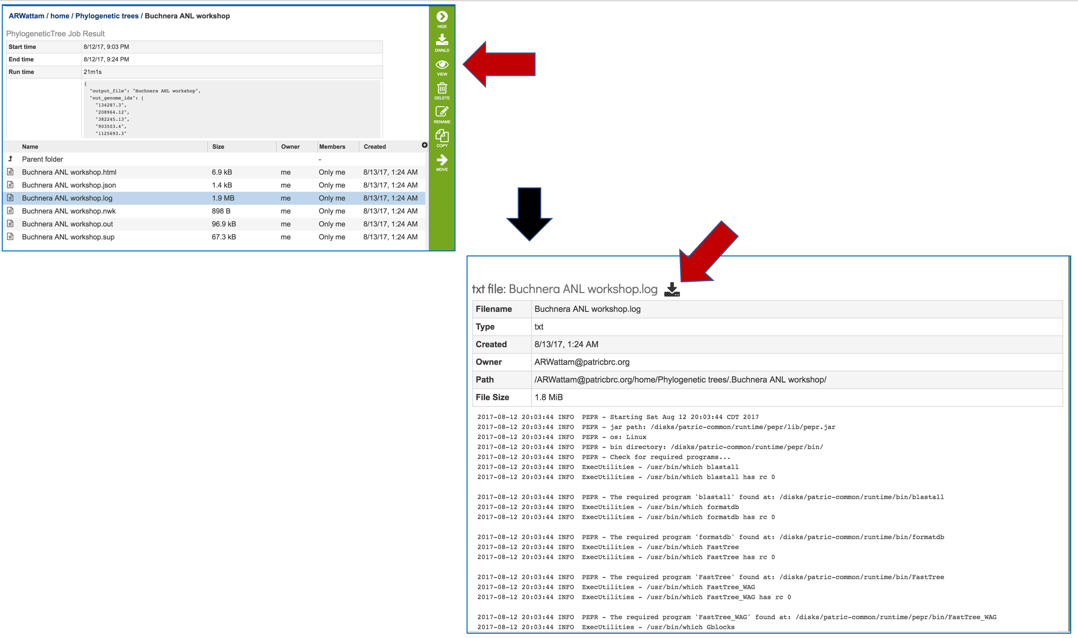
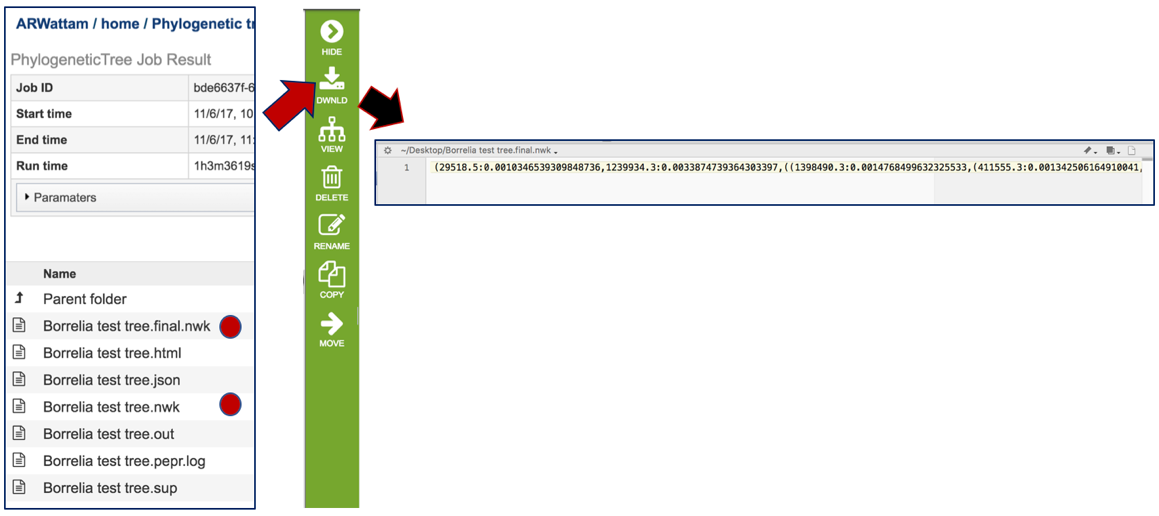
update phylogenetic tree building tutorial

Changed region(s): [[0.0, 0.0, 1.0, 1.0], [0.0, 0.4961, 0.2143, 0.9922], [0.1837, 0.7442, 0.2143, 0.8062]]

diff --git a/docroot/tutorial/phylogenetic_tree_building/tree_building.md b/docroot/tutorial/phylogenetic_tree_building/tree_building.md
@@ -1,133 +1,139 @@
-# Building Phylogenetic Trees
+# Building Phylogenetic trees in PATRIC
 
 ## 1. Selecting an “ingroup” of genomes for the tree.
 1.1. In the Global text box, which is found at the right side of the header on any PATRIC page, enter the genus of interest, then hit return.
-![Step 1](./images/image1.png "Step 1")
+![Step 1](./images/image1.png)
 
 1.2. This will reload the page to show the search results.  Click on the number that follows the Genomes in these results.
-![Step 2](./images/image2.png "Step 2")
+![Step 2](./images/image2.png)
 
 1.3. This will open a table that contains all the genomes that have a match with the word used in the search.
-![Step 3](./images/image3.png "Step 3")
+![Step 3](./images/image3.png)
 
 1.4. For this exercise, select 5 genomes by clicking on the check box in front of the name.   This will open icons in the vertical green bar that are can be used with this selection.  Click on the Group icon.
-![Step 4](./images/image4.png "Step =4")
+![Step 4](./images/image4.png)
 
 1.5. This will open a pop-up window where a group can be named.  Click on the down arrow at the end of the text box that has Existing Group in it.  This will open up a drop-down box.  Click on New Group.  This will change the text in that box to “New Group”.  Enter the name of the new group in the text box under Group Name and click the Add button.  The group will now be saved in the workspace.
-![Step 5](./images/image5.png "Step 5")
+![Step 5](./images/image5.png)
+
 
 ## 2. Selecting an “outgroup” of genomes for the tree from the Order level phylogenetic tree view.
 2.1. Select any single genome from the genome table by clicking on the check box in front of its name.  This will open icons in the vertical green bar that are can be used with this selection.  Click on the Genome icon.
-![Step 6](./images/image6.png "Step 6")
+![Step 6](./images/image6.png)
 
 2.2. This will open the landing page for that genome.  Across the top a number of tabs can be seen.  Click on the Phylogeny tab.
-![Step 7](./images/image7.png "Step 7")
+![Step 7](./images/image7.png)
 
 2.3. This will open up a phylogenetic tree that includes the higher quality genomes (those with the fewest contigs) for each of the major groups within the taxonomic Order that the genome belongs to.  Scroll down to find the genus of interest
-![Step 8](./images/image8.png "Step 8")
+![Step 8](./images/image8.png)
 
-2.4. Once the genus is located, look below it to find the closest genera that are not part of the named genus.
-![Step 9](./images/image9.png "Step 9")
+2.4.  Once the genus is located, look below it to find the closest genera that are not part of the named genus.
+![Step 9](./images/image9.png)
 
 2.5. To select genomes of interest, locate the genome and click on the black dot immediately in front of the name of that genome.  Wait several seconds.  The branch that points to that genome will turn red.
-![Step 10](./images/image10.png "Step 10")
+![Step 10](./images/image10.png)
 
 2.6. Use Command click to select a total of up to 5 genomes. Once selected, click on the Group icon in the vertical green bar.
-![Step 11](./images/image11.png "Step 11")
+![Step 11](./images/image11.png)
 
 2.7. This will open a pop-up window where a group can be named.  Click on the down arrow at the end of the text box that has Existing Group in it.  This will open up a drop-down box.  Click on New Group.  This will change the text in that box to “New Group”.  Enter the name of the new group in the text box under Group Name and click the Add button.  The group will now be saved in the workspace.
-![Step 12](./images/image12.png "Step 12")
+![Step 12](./images/image12.png)
+
 
 ## 3. Launching the phylogenetic tree job with selected genomes
 3.1. Click on the Services tab at the top of the page, and then on Phylogenetic Tree, which can be found underneath the Genomics header.
-![Step 13](./images/image13.png "Step 13")
+![Step 13](./images/image13.png)
 
 3.1.1. Selecting the ingroup genomes.  Find the box for Ingroup genomes.
-![Step 14](./images/image14.png "Step 14")
+![Step 14](./images/image14.png)
 
 3.1.2. To select a genome group that contains the ingroup genomes, click on the down arrow next to the text box under And/Or Select Genome Group. This will open a drop-down list that shows the names of all the genome groups.  Select the group of interest by clicking on it.
-![Step 15](./images/image15.png "Step 15")
+![Step 15](./images/image15.png)
 
 3.1.3. The name of the group will be in the text box.  Click on the plus icon to move that genome into the selected ingroup genome table.
-![Step 16](./images/image16.png "Step 16")
+![Step 16](./images/image16.png)
 
 3.2. Selecting the outgroup genomes.  Find the Outgroup genomes box.  To select a genome group that contains the outgroup genomes, click on the down arrow next to the text box under And/Or Select Genome Group. This will open a drop-down list that shows the names of all the genome groups.  Select the group of interest by clicking on it.
-![Step 17](./images/image17.png "Step 17")
+![Step 17](./images/image17.png)
 
 3.2.1. The name of the group will be in the text box.  Click on the plus icon to move that genome into the selected outgroup genome table.
-![Step 18](./images/image18.png "Step 18")
+![Step 18](./images/image18.png)
 
-3.3. Selecting the parameters
+3.3. Selecting the parameters 
 
 3.3.1. Creating a folder
 
 3.3.1.1. A folder must be selected to hold the phylogenetic tree job.  To create a folder, click on the folder icon that is next to the text box under Output Folder.  This will open a pop-up window where all the folders in the workspace are displayed.
-![Step 19](./images/image19.png "Step 19")
+![Step 19](./images/image19.png)
 
 3.3.1.2. To create a new folder, click on the folder icon at the top right of the table.
-![Step 20](./images/image20.png "Step 20")
+![Step 20](./images/image20.png)
 
 3.3.1.3. This will open a pop-up window where the new folder can be named.  Enter the desired name, and then click on the Create Folder button.
-![Step 21](./images/image21.png "Step 21")
+![Step 21](./images/image21.png)
 
 3.3.1.4. The name of the new folder will appear in the folder table.  Select that folder, and then click the OK button.
-![Step 22](./images/image22.png "Step 22")
+![Step 22](./images/image22.png)
 
 3.3.1.5. The name of the selected folder will now appear in the textbox under Output Folder.
-![Step 23](./images/image23.png "Step 23")
+![Step 23](./images/image23.png)
 
 3.3.2. Naming the tree.  Enter the name of the tree in the text box under Output Name. This will be the identifier displayed in the jobs list.
-![Step 24](./images/image24.png "Step 24")
+![Step 24](./images/image24.png)
 
 3.3.3. Selecting the tree building algorithm.  The PEPR software is packaged to run on Linux and on Mac. The software pipeline makes use of several third-party tools. These include, BLAST[1], MCL[2], Muscle[3], hmmbuild[4], hmmsearch[4], Gblocks[5], FastTree[6], and RAxML[7]. The pipeline begins with the set of ingroup genome protein files. These are filtered to remove duplicate species, resulting in a distinct-species subset of the ingroup genomes. This is done to reduce biasing the homolog sets with overrepresented species. BLAST searches are used to find bi-directional best hit protein pairs between genomes, and these bidirectional best hit pairs are clustered using MCL. Clusters containing members from at least half of the distinct genomes are chosen as initial, or seed, homolog sets. These seed sets are expanded to include members from all ingroup and outgroup taxa using tools from the HMMer suite. A hidden Markov Model (HMM) is built from each seed set using hmmbuild. These HMMs are used to search each genome, with hmmsearch, to find the best match from each genome for each homolog set model. The final, expanded, homolog sets are created from the hmmsearch results. Homolog sets representing fewer than 80% of ingroup genomes are removed. The remaining sets are aligned using Muscle, and the alignments are trimmed using GBlocks. The trimmed alignments are concatenated and this concatenated alignment is used to build the main tree with either RAxML or FastTree.
 
 3.3.3.1. Selecting the tree building algorithm.  FastTree and RAxML use different methods, allowing a more stringent test of the robustness of the tree.  Fast Tree runs much more quickly than RAxML, and for this reason should be the first choice.
-![Step 25](./images/image25.png "Step 25")
+![Step 25](./images/image25.png)
 
 3.3.4. Progressive refinement.  The progressive refinement method helps resolve questionable branches by targeting poorly-resolved subtrees for more detailed analysis, typically incorporating additional protein families in the process. This allows trees spanning hundreds of genomes to contain subtrees based on thousands of protein families.  This option allows for a much more thorough analysis is possible (at the cost of a much longer run time).  When this option is selected, the tree with branch support values is searched breadth-first for branches with <100% support that have parent branches with 100% support, which we call “weakly supported and confidently bounded.” The less than 100% support value indicates uncertainty in the details of a subtree, and the 100% support value indicates confidence in the placement of that subtree within the larger tree. The genomes in the subtree, with an outgroup genome chosen from the sister clade, are submitted to PEPR to have a refined tree constructed for just that subset, following the procedure described above. The refined tree is then grafted into the full tree. This process of prune-refine-graft is repeated until refinement has been attempted for all weakly-supported and confidently-bounded subtrees.  The support trees are constructed with FastTree by default for two reasons. First, FastTree is significantly faster than RAxML. Second, FastTree and RAxML use different methods, allowing a more stringent test of the robustness of the tree, because the same result from a different method is more reassuring.
-![Step 26](./images/image26.png "Step 26")
+![Step 26](./images/image26.png)
 
 3.4. Launching the job
 
 3.4.1. Once the ingroup and outgroup genomes have been selected, and the parameters have been chosen, the phylogenetic tree job is ready to be submitted.  Click on the Submit button at the bottom of the page.
-![Step 27](./images/image27.png "Step 27")
+![Step 27](./images/image27.png)
 
 3.4.2. A message will appear over the submit button warning the user that this particular pipeline takes some time to run, especially if progressive refinement was selected.
-![Step 28](./images/image28.png "Step 28")
+![Step 28](./images/image28.png)
+
 
 ## 4. Viewing the results
 4.1. To view the results of the tree building pipeline, click on the Jobs box at the bottom right of any PATRIC page.
-![Step 29](./images/image29.png "Step 29")
+![Step 29](./images/image29.png)
 
 4.2. This will rewrite the page to show the list of jobs that have been submitted, and their progress.
-![Step 30](./images/image30.png "Step 30")
+![Step 30](./images/image30.png)
 
 4.3. To see the results of any tree job, highlight the row by selecting it.  This will open icons in the vertical green bar that are can be used with this selection.  Click on the view icon.
-![Step 31](./images/image31.png "Step 31")
+![Step 31](./images/image31.png)
 
-4.4. This will rewrite the page to show the results of the phylogenetic tree job that was submitted.
-![Step 32](./images/image32.png "Step 32")
+4.4. This will rewrite the page to show the results of the phylogenetic tree job that was submitted. Click on the tree icon at the top right of this table.
+![Step 32](./images/image32.png)
 
-4.5. Parameters. To see the genome IDs and the parameters (like the tree building algorithm and whether or not progressive refinement was deployed), scroll down in the parameters file that can be found under Run Time in the summary table.
-![Step 33](./images/image33.png "Step 33")
+4.5. This will re write the page to show the phylogenetic tree in the PATRIC viewer.
+![Step 33](./images/image33.png)
 
-4.6. Viewing the tree (html). Clicking on the HyperText Markup Language (HTML) file will rewrite the webpage to show a rendering of the tree produced by the pipeline. To see the tree generated by the tree building pipeline, highlight the row that lists that file.  This will open icons in the vertical green bar that are can be used with this selection.  Click on the View icon.  This will rewrite the lower part of the page, showing the tree. To download the html file, click on the download icon in this page.
-![Step 34](./images/image34.png "Step 34")
+4.6. The Job page has a variety of other files available for download or viewing.
+![Step 34](./images/image34.png)
 
-4.7. JSON file.  JSON (JavaScript Object Notation) is an open, text-based data exchange format. Like XML, it is human-readable, platform independent, and enjoys a wide availability of implementations. Data formatted according to the JSON standard is lightweight and can be parsed by JavaScript implementations with incredible ease, making it an ideal data exchange format for Ajax web applications. Since it is primarily a data format, JSON is not limited to just Ajax web applications, and can be used in virtually any scenario where applications need to exchange or store structured information as text.  To see the JSON file generated by the tree building pipeline, highlight the row that lists that file.  This will open icons in the vertical green bar that are can be used with this selection.  Click on the View icon.  This will rewrite the lower part of the page, showing the JSON file. To download the JSON file, click on the download icon in this page.
-![Step 35](./images/image35.png "Step 35")
+4.7. Newick files.  In mathematics, Newick tree format (or Newick notation or New Hampshire tree format) is a way of representing graph-theoretical trees with edge lengths using parentheses and commas. It was adopted by James Archie, William H. E. Day, Joseph Felsenstein, Wayne Maddison, Christopher Meacham, F. James Rohlf, and David Swofford, at two meetings in 1986, the second of which was at Newick's restaurant in Dover, New Hampshire, US.  This file can be used in other software, like FigTree[8], to visualize a phylogenetic tree.  To view the Newick file, highlight the rows where it is listed.  This will open icons in the vertical green bar that are can be used with this selection.  Click on the View icon.  This will rewrite the lower part of the page, showing the Newick file.
+![Step 35](./images/image35.png)
 
-4.8. Log file.  The log file details all the steps that occurred during the construction of the tree.  To view that file, highlight the row where it is listed.  This will open icons in the vertical green bar that are can be used with this selection.  Click on the View icon.  This will rewrite the lower part of the page, showing the log file.  To download the log file, click on the download icon in this page.
-![Step 36](./images/image36.png "Step 36")
+4.8. To download the Newick file, click on the download icon in this page.
+![Step 36](./images/image36.png)
 
-4.9. Newick file.  In mathematics, Newick tree format (or Newick notation or New Hampshire tree format) is a way of representing graph-theoretical trees with edge lengths using parentheses and commas. It was adopted by James Archie, William H. E. Day, Joseph Felsenstein, Wayne Maddison, Christopher Meacham, F. James Rohlf, and David Swofford, at two meetings in 1986, the second of which was at Newick's restaurant in Dover, New Hampshire, US.  This file can be used in other software, like FigTree[8], to visualize a phylogenetic tree.  To view the Newick file, highlight the row where it is listed.  This will open icons in the vertical green bar that are can be used with this selection.  Click on the View icon.  This will rewrite the lower part of the page, showing the Newick file.  To download the Newick file, click on the download icon in this page.
-![Step 37](./images/image37.png "Step 37")
+4.9. JSON file.  JSON (JavaScript Object Notation) is an open, text-based data exchange format. Like XML, it is human-readable, platform independent, and enjoys a wide availability of implementations. Data formatted according to the JSON standard is lightweight and can be parsed by JavaScript implementations with incredible ease, making it an ideal data exchange format for Ajax web applications. Since it is primarily a data format, JSON is not limited to just Ajax web applications, and can be used in virtually any scenario where applications need to exchange or store structured information as text.  To see the JSON file generated by the tree building pipeline, highlight the row that lists that file.  This will open icons in the vertical green bar that are can be used with this selection.  Click on the View icon.  This will rewrite the lower part of the page, showing the JSON file. To download the JSON file, click on the download icon in the vertical green bar, or at the top of the page (blue arrow).
+![Step 37](./images/image37.png)
 
-4.10. Out file.    To view the Out file, highlight the row where it is listed.  This will open icons in the vertical green bar that are can be used with this selection.  Click on the View icon.  This will rewrite the lower part of the page, showing the Out file.  To download the Out file, click on the download icon in this page.
-![Step 38](./images/image38.png "Step 38")
+4.10. Log file.  The log file details all the steps that occurred during the construction of the tree.  To view that file, highlight the row where it is listed.  This will open icons in the vertical green bar that are can be used with this selection.  Click on the View icon.  This will rewrite the lower part of the page, showing the log file.  To download the log file, click on the download icon in the vertical green bar, or at the top of this page (blue arrow).
+![Step 38](./images/image38.png)
 
-4.11. Branches where refinement was engaged (Support file).  The progressive refinement method helps resolve questionable branches by targeting poorly-resolved subtrees for more detailed analysis, typically incorporating additional protein families in the process. This allows trees spanning hundreds of genomes to contain subtrees based on thousands of protein families.  The subtrees for each file are available.  To view this file, highlight the row where it is listed.  This will open icons in the vertical green bar that are can be used with this selection.  Click on the View icon.  This will rewrite the lower part of the page, showing the file.  To download the file, click on the download icon in this page.
-![Step 39](./images/image39.png "Step 39")
+4.11. Out file.    To view the Out file, highlight the row where it is listed.  This will open icons in the vertical green bar that are can be used with this selection.  Click on the View icon.  This will rewrite the lower part of the page, showing the Out file.  To download the Out file, click on the download icon in the vertical green bar or at the top of this page (blue arrow).
+![Step 39](./images/image39.png)
+
+4.12. Branches where refinement was engaged (Support file).  The progressive refinement method helps resolve questionable branches by targeting poorly-resolved subtrees for more detailed analysis, typically incorporating additional protein families in the process. This allows trees spanning hundreds of genomes to contain subtrees based on thousands of protein families.  The subtrees for each file are available.  To view this file, highlight the row where it is listed.  This will open icons in the vertical green bar that are can be used with this selection.  Click on the View icon.  This will rewrite the lower part of the page, showing the file.  To download the file, click on the download icon in this page.
+![Step 40](./images/image40.png)
 
 ## References
 1. Boratyn GM, Camacho C, Cooper PS et al. BLAST: a more efficient report with usability improvements, Nucleic Acids Res 2013;41:W29-33.
